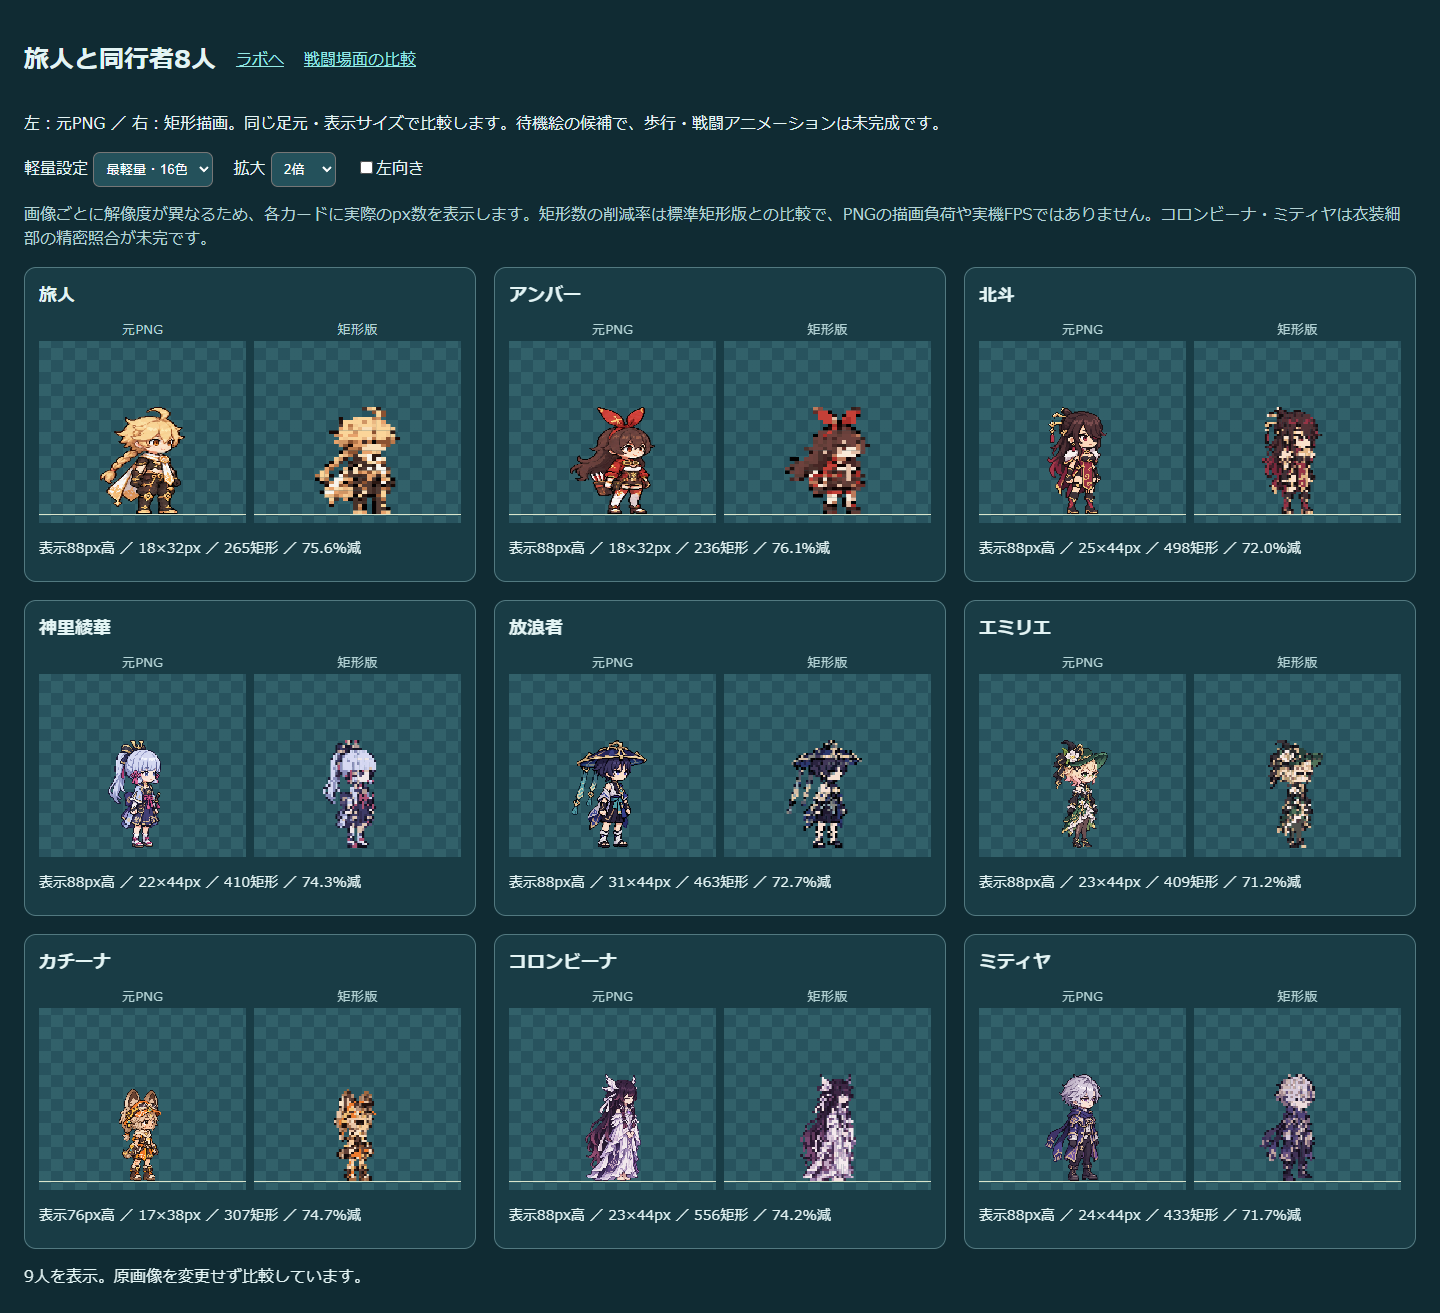
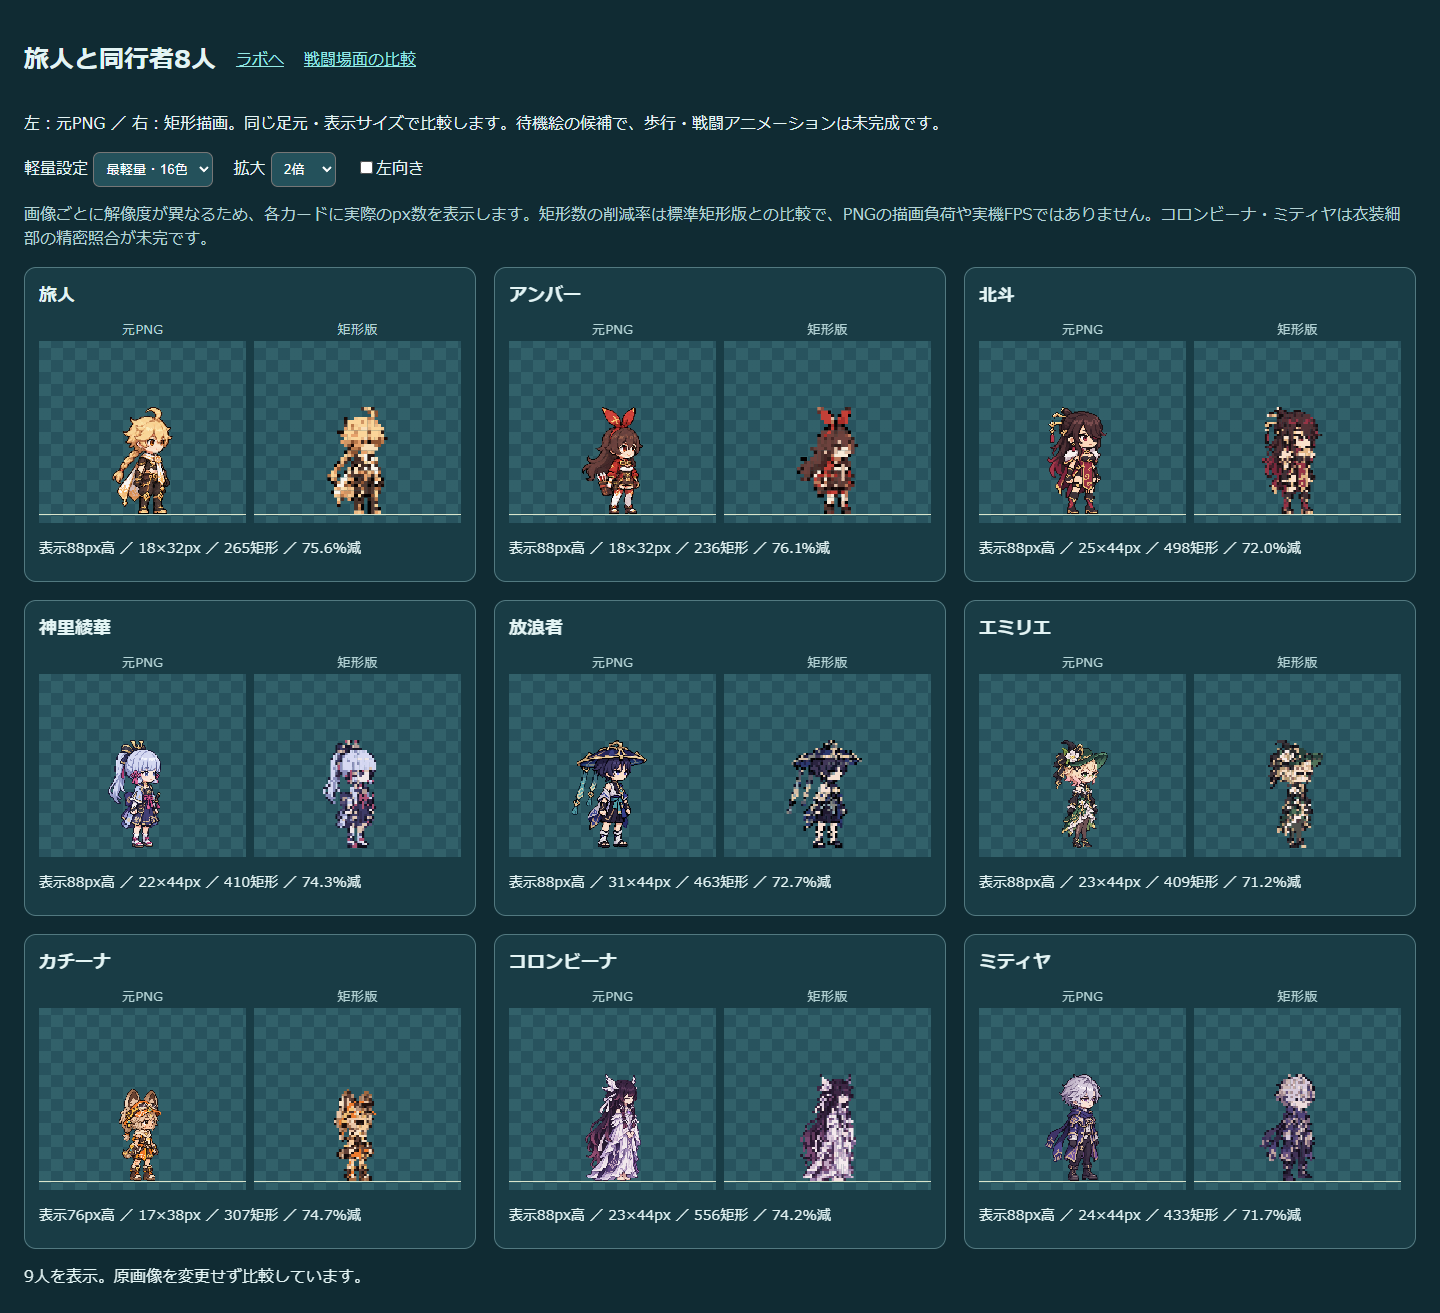
Fix atlas character aspect ratios in comparison gallery

diff --git a/characters-art.js b/characters-art.js
@@ -3,7 +3,7 @@ async function json(path){const r=await fetch(path);if(!r.ok)throw Error(path);r
 async function add(id,name,data,h,w){const image=new Image();image.src='assets/'+data.source;await image.decode();const article=document.createElement('article');article.innerHTML=`<h2>${name}</h2><div class="pair"><div><small>元PNG</small><canvas width="340" height="300"></canvas></div><div><small>矩形版</small><canvas width="340" height="300"></canvas></div></div><div class="stats"></div>`;$('cards').append(article);assets.push({id,data,image,article,h,w:w||h*data.box[2]/data.box[3]})}
 try{
  const variants=(await json('assets/variants.json')).variants;
- for(const [id,name,index] of [['traveler','旅人',0],['amber','アンバー',2]]){const profiles=Object.fromEntries(['legacy','h48c32','h32c16'].map(k=>[k,variants[k].sprites[index]]));await add(id,name,{source:'atlas-transparent.png',box:profiles.legacy.box,profiles},88,70)}
+ for(const [id,name,index] of [['traveler','旅人',0],['amber','アンバー',2]]){const profiles=Object.fromEntries(['legacy','h48c32','h32c16'].map(k=>[k,variants[k].sprites[index]]));await add(id,name,{source:'atlas-transparent.png',box:profiles.legacy.box,profiles},88)}
  for(const [id,name] of Object.entries({beidou:'北斗',ayaka:'神里綾華',wanderer:'放浪者',emilie:'エミリエ',kachina:'カチーナ',columbina:'コロンビーナ',mitya:'ミティヤ'}))await add(id,name,await json(`assets/${id}-idle-sprites.json`),id==='kachina'?76:88);
  function render(){const profile=$('profile').value,zoom=Number($('zoom').value),flip=$('flip').checked;
   for(const {data,image,article,h,w} of assets){const a=data.profiles[profile],height=h*zoom,width=w*zoom,anchor=data.anchorX??.5;
@@ -11,7 +11,7 @@ try{
     if(i===0)ctx.drawImage(image,...data.box,x,y,width,height);else for(const r of a.runs){ctx.fillStyle=r[4];ctx.fillRect(x+r[0]*width/a.width,y+r[1]*height/a.height,r[2]*width/a.width+.05,r[3]*height/a.height+.05)}ctx.restore();ctx.fillStyle='#dae5cc';ctx.fillRect(0,285,340,1);
    }
    article.querySelector('.stats').textContent=`表示${h}px高 ／ ${a.width}×${a.height}px ／ ${a.runs.length.toLocaleString()}矩形 ／ ${(100*(1-a.runs.length/data.profiles.legacy.runs.length)).toFixed(1)}%減`;
-  }$('status').textContent='9人を表示。原画像を変更せず比較しています。';window.charactersGallery={ready:true,count:assets.length,profile,zoom,flip};
+  }$('status').textContent='9人を表示。原画像を変更せず比較しています。';window.charactersGallery={ready:true,count:assets.length,profile,zoom,flip,dimensions:assets.map(({id,h,w,data})=>({id,h,w,ratio:data.box[2]/data.box[3]}))};
  }
  for(const id of ['profile','zoom','flip'])$(id).onchange=render;render();
 }catch(e){$('status').textContent='素材の読み込みに失敗しました: '+e.message;throw e}

diff --git a/test_character_aspect.py b/test_character_aspect.py
@@ -1,0 +1,6 @@
+import json
+from runtime import runtime,ROOT
+lua,c=runtime();s=c.new(16);c.action(s,'campaign');f=c.frame(s,'sprite','legacy');sizes=[]
+for i in [1,3]:
+ d=next(d for d in f.draws.values() if d.kind=='sprite' and d.asset==i);box=c.assets[i].box;assert abs(d.w/d.h-box[3]/box[4])<1e-9;sizes.append({'asset':i,'w':d.w,'h':d.h})
+(ROOT/'evidence/character-aspect-test.json').write_text(json.dumps(sizes,indent=2));print(sizes)

diff --git a/CHAT_HANDOFF.md b/CHAT_HANDOFF.md
@@ -33,3 +33,5 @@
 ミティヤの待機絵候補追加。衣装精密照合は未完。88px/左右/3軽量profile対応、技AI変更なし。同行8人に待機絵候補が入り、歩行/戦闘の完成アニメは未完。
 
 characters-art.htmlで旅人＋8同行のPNG/矩形比較、3設定/3倍率/左右を確認可能。Chrome9カード確認、390px幅横溢れなし。最軽量は細部減少、新規同行と旅人Amberの体格差が残る。技変更なし。
+
+比較ギャラリー訂正: 旅人/Amberだけ幅70固定で横伸長していたため原比に修正。本体は以前から原比（49.56/50.05×88px）。前述の体格差判断にはこの比較表示の不具合が含まれていた。9人の縦横比検査追加、ブラウザ再確認。
